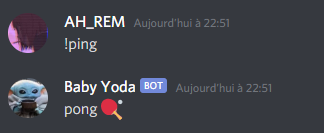
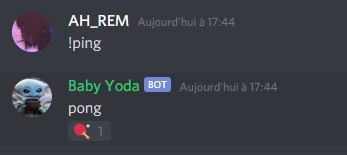
Udpate README.md

diff --git a/README.md b/README.md
@@ -48,9 +48,12 @@ noob.load(path.join(__dirname, 'command.yml'));
 ```yml
 # command.yml
 ping:
+    unique: true
     message:
-        send:
-            - pong 🏓
+        content:
+            - pong
+        react:
+            - 🏓
 ```
 
 Result:
